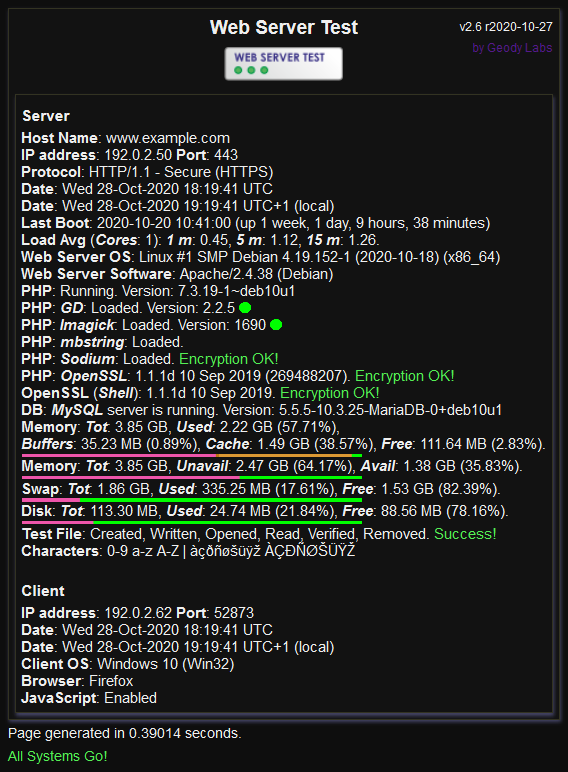
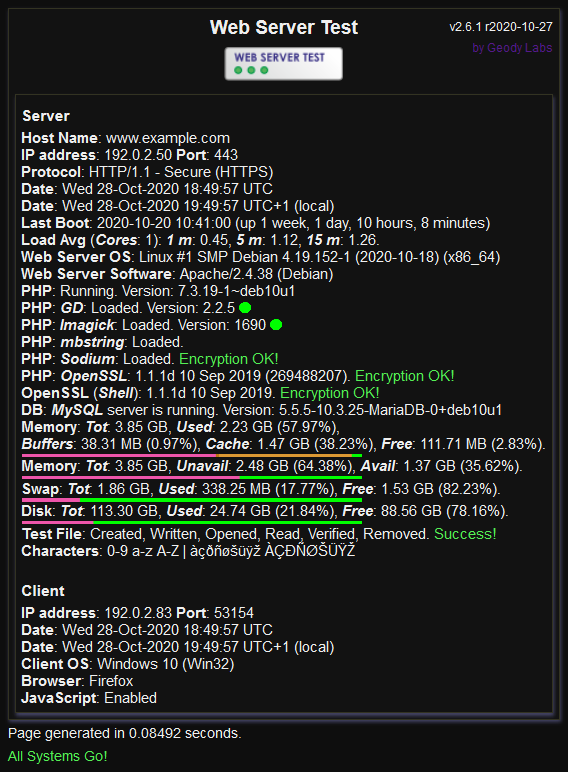
Add files via upload
- All logged data are prefixed by a label in all uppercase
- You can now disable or enable tests that require the execution of a Linux shell command
- Improved output: Titles / Memory information / Successful tests are now shown in green by default / and more
- Minor bug fixes and optimizations

diff --git a/webservertest.php b/webservertest.php
@@ -2,7 +2,7 @@
 $page_start_time=microtime(true);
 # Web Server Test
 # By Valerio Capello (Elf Qrin) - http://labs.geody.com/
-$xprodver='v2.6 r2020-10-27'; # fr2016-10-01
+$xprodver='v2.6.1 r2020-10-27'; # fr2016-10-01
 
 # die(); # die unconditionately, locking out any access
 
@@ -672,8 +672,8 @@ if (!$xmp) {
 $ds=disk_total_space('/'); 
 $df=disk_free_space('/');
 } else {
-$ds=113.3*1024*1024;
-$df=88.56*1024*1024;
+$ds=113.3*1024*1024*1024;
+$df=88.56*1024*1024*1024;
 }
 $dso=$ds; $dfo=$df;
 if ($ds!=0) {
